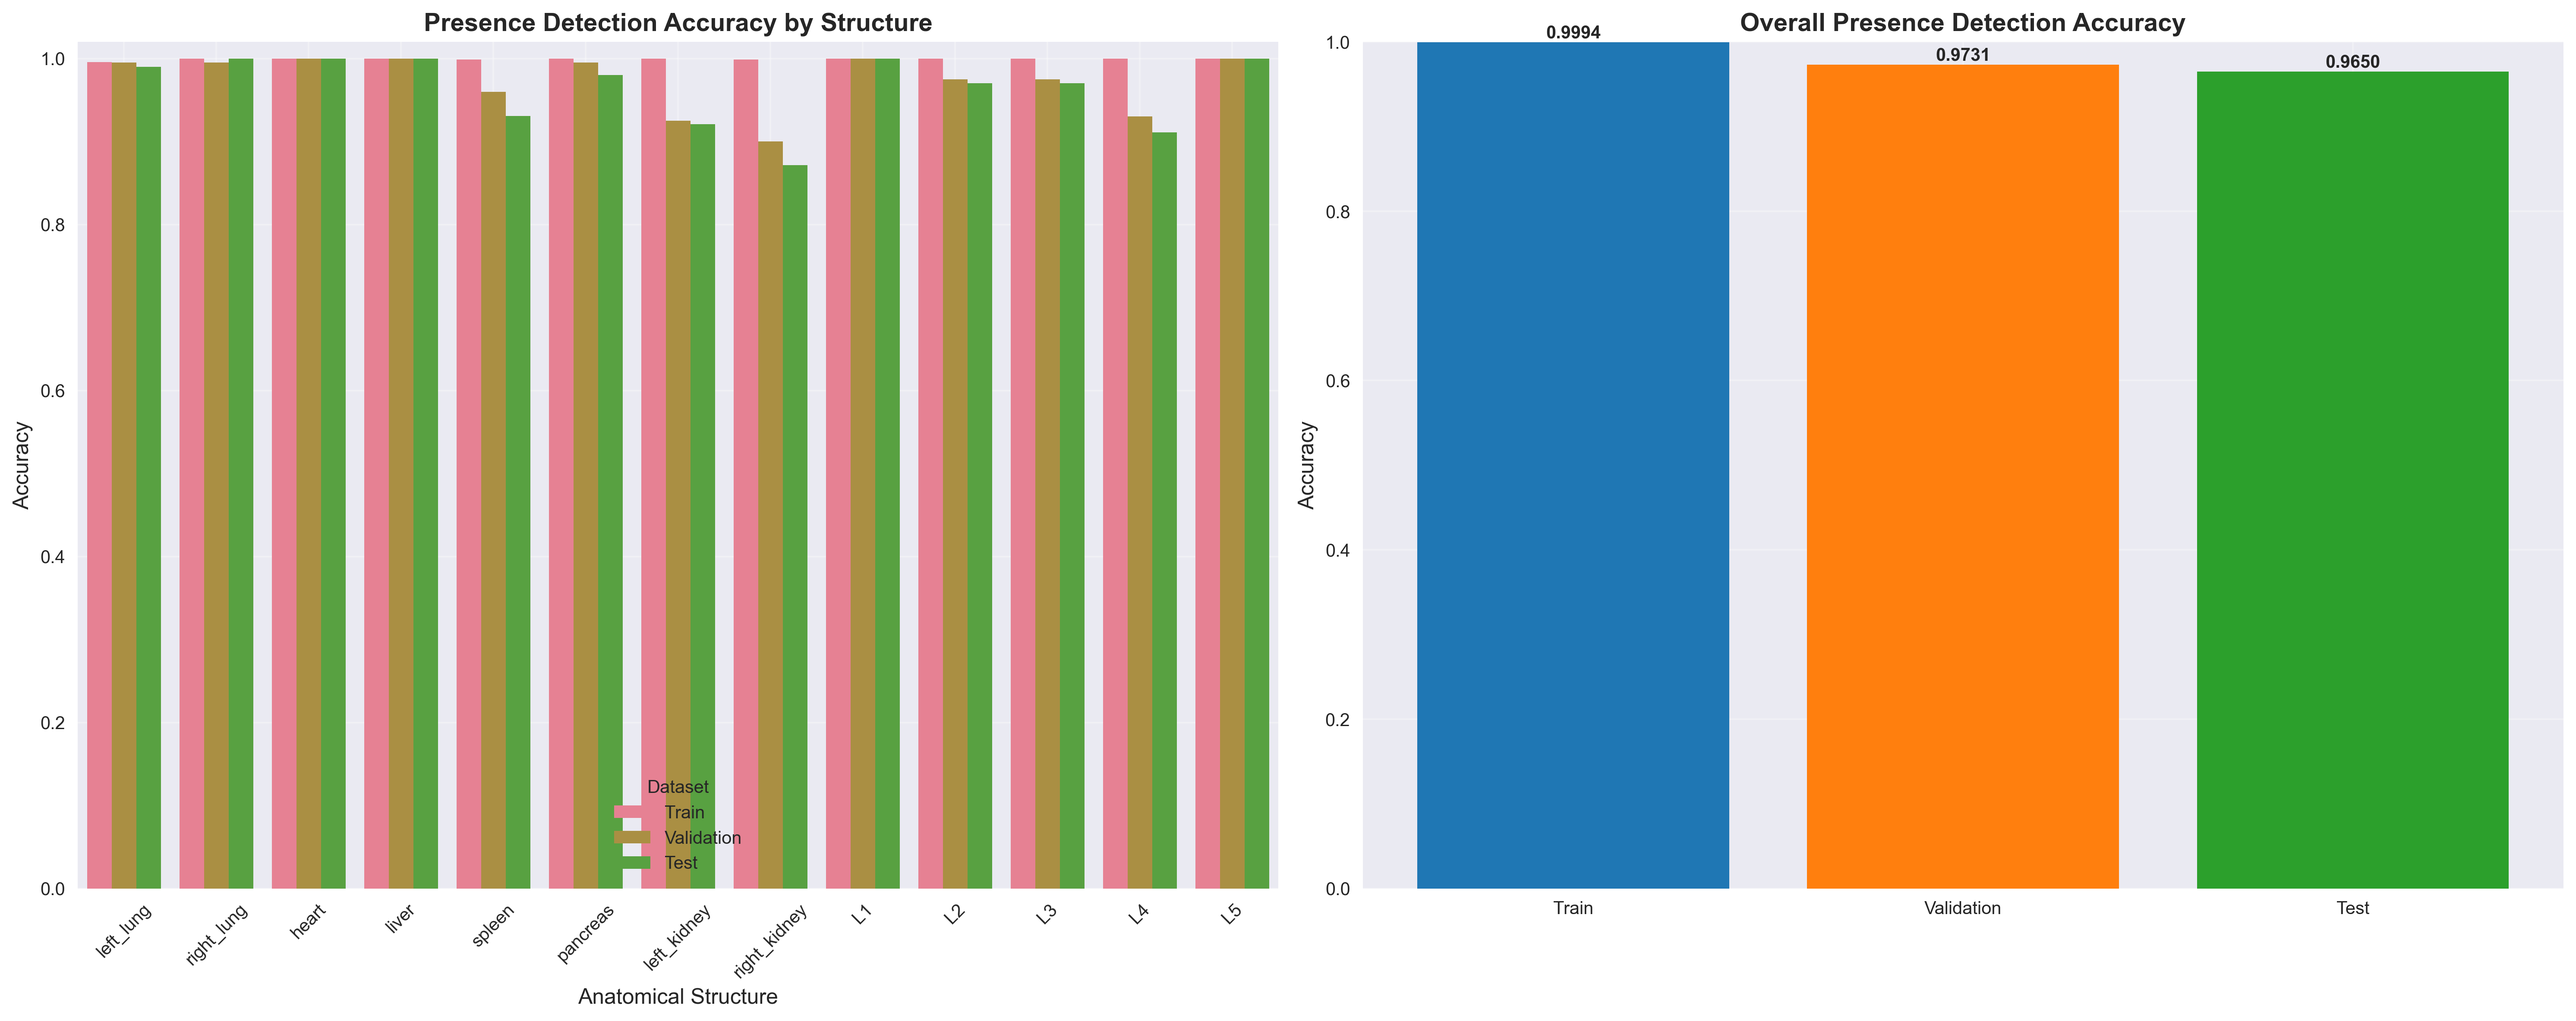
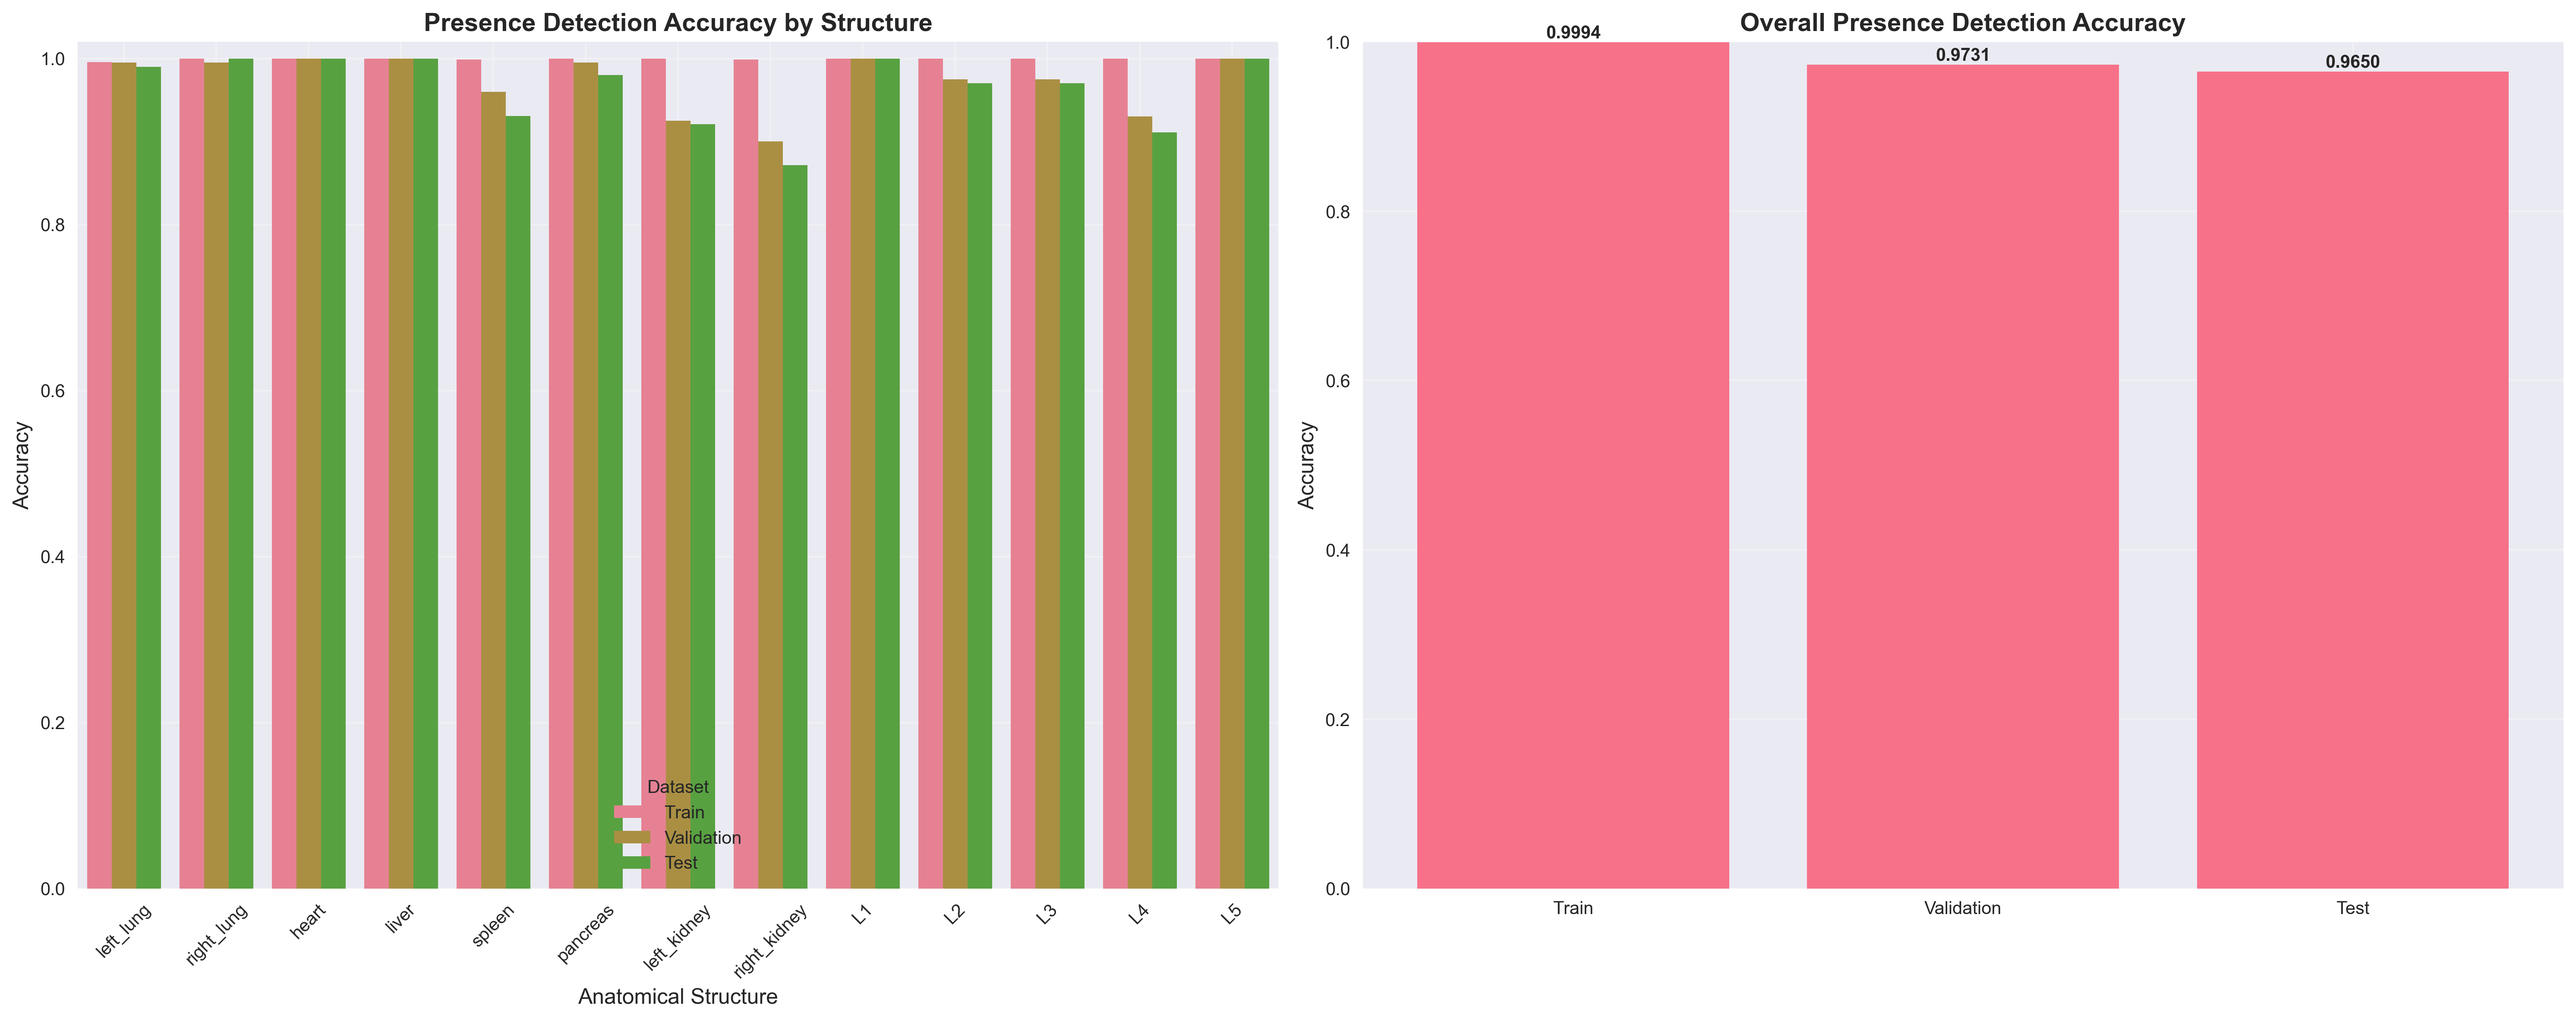
Add results README

Changed region(s): [[0.5297, 0.0312, 0.9972, 0.875]]

diff --git a/analysis/analysis.py b/analysis/analysis.py
@@ -71,8 +71,7 @@ class MedicalSegmentationAnalyzer:
             })
 
         df_overall = pd.DataFrame(overall_acc)
-        bars = ax2.bar(df_overall['Dataset'], df_overall['Overall_Accuracy'],
-                       color=['#1f77b4', '#ff7f0e', '#2ca02c'])
+        bars = ax2.bar(df_overall['Dataset'], df_overall['Overall_Accuracy'])
         ax2.set_title('Overall Presence Detection Accuracy', fontsize=14, fontweight='bold')
         ax2.set_ylabel('Accuracy', fontsize=12)
         ax2.set_ylim([0, 1.0])

diff --git a/README.md b/README.md
@@ -6,27 +6,75 @@
 * [synthetic data generation](https://github.com/dr-darryl-wright/sadaan/tree/main/utils)
 * [training protocol](https://github.com/dr-darryl-wright/sadaan/tree/main/train)
 * [testing](https://github.com/dr-darryl-wright/sadaan/tree/main/test)
+* [analysis](https://github.com/dr-darryl-wright/sadaan/tree/main/analysis)
 ---
 ## Replication
 
 ### data generation
 ```bash
-$
+$ python synthetic_medical_generator.py \
+    --image-size "64,64,32" \
+    --total-samples 1000 \
+    --output-dir "../data/synthetic_medical_dataset_hdf5/"
 ```
 
 ### training
 ```bash
-$
+$ python train.py with dataset_path="../data/synthetic_medical_dataset_hdf5/" training.batch_size="4"
 ```
+**loss**
+![](/src/loss.png)
+
+**metrics**
+![](/src/metrics.png)
 
 ### testing
 ```bash
-$
+$ python test.py --weights ../train/checkpoints/best_model.pth --dataset ../data/synthetic_medical_dataset_hdf5/ --split test --output ./revised_backbone/test/
 ```
 
+### analysis
+```bash
+$ python analysis.py --train ../test/revised_backbone/train/detailed_metrics.json --val ../test/revised_backbone/val/detailed_metrics.json --test ../test/revised_backbone/test/detailed_metrics.json -o ./revised_backbone/
+```
 ---
 
 ## Analysis
 
+**1. OVERALL PERFORMANCE:**
+
+TRAIN: Presence Acc: 0.9994, Dice: 0.9338, IoU: 0.8862
+
+VALIDATION: Presence Acc: 0.9731, Dice: 0.8394, IoU: 0.7741
+
+TEST: Presence Acc: 0.9650, Dice: 0.8396, IoU: 0.7762
+
+**2. STRUCTURE PERFORMANCE (Test Set):**
+
+Best performing structures (Dice score):
+            liver: 0.9803
+       right_lung: 0.9791
+        left_lung: 0.9718
+
+Worst performing structures (Dice score):
+               L4: 0.7216
+               L3: 0.6904
+               L2: 0.6042
+
 ### Present/Absent
-#### training
+![](/analysis/revised_backbone/presence_accuracy_comparison.png)
+
+![](/analysis/revised_backbone/performance_heatmap.png)
+
+### Scenario analysis
+![](/analysis/revised_backbone/scenario_based_analysis.png)
+
+### Segmentation
+![](/analysis/revised_backbone/segmentation_dice_comparison.png)
+
+### Test set example visualisation
+![](/test/revised_backbone/test/comprehensive_analysis_sample_1.png)
+![](/test/revised_backbone/test/comprehensive_analysis_sample_2.png)
+![](/test/revised_backbone/test/comprehensive_analysis_sample_3.png)
+![](/test/revised_backbone/test/comprehensive_analysis_sample_4.png)
+![](/test/revised_backbone/test/comprehensive_analysis_sample_5.png)
